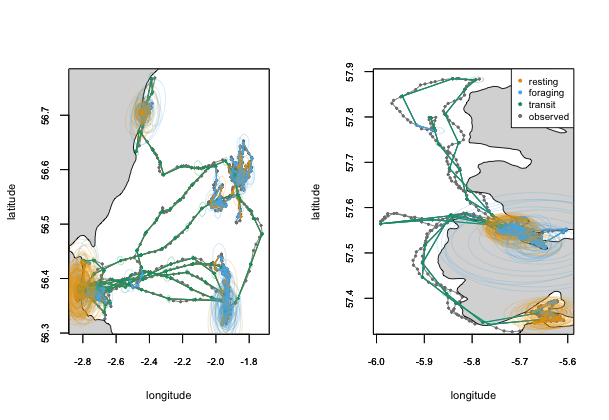
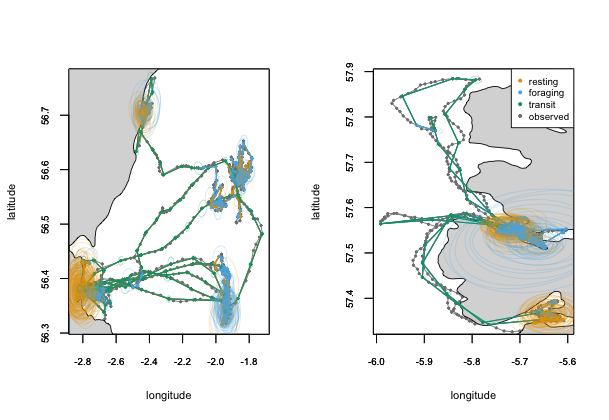
update harbourSealExample using formulaDelta=~ID

diff --git a/vignettes/momentuHMM.tex b/vignettes/momentuHMM.tex
@@ -178,7 +178,7 @@ While statisticians have been applying HMMs to telemetry data for decades, R \ci
 
 To address these defeciencies in existing software, we introduce a new user-friendly R package, \verb|momentuHMM| (Maximum likelihood analysis Of animal MovemENT behavior Using multivariate Hidden Markov Models), intended for practitioners wishing to implement more flexible and realistic (multivariate) HMM analyses of animal movement while accounting for common challenges associated with telemetry data. Features for multivariate HMM analyses in \verb|momentuHMM| include: 1) tools for data pre-processing and visualization; 2) user-specified probability distributions for an unlimited number of data streams and latent behavior states; 3) user-specified design matrices and constraints for covariate modelling of state transition probability and probability distribution parameters using linear model formulas familiar to most R users; 4) multiple imputation methods that account for observation error attributable to measurement error and temporally-irregular or missing data \citep{HootenEtAl2017,McClintock2017}; 5) seamless integration of spatio-temporal environmental covariate data (e.g., wind direction, forest cover, sea ice concentration) using the \verb|raster| package \citep{Hijmans2016}; 6) incorporation of ``activity center'' effects (e.g., areas associated with attractive or repulsive forces); 7) circular-circular regression models for angular probability distributions \citep{DuchesneEtAl2015}; 8) cosinor \citep[e.g.][]{Cornelissen2014} and spline regression formulas for cyclical and other complicated behavioral patterns; and 9) data simulation capabilities for power analyses and assessing model performance, including simulation of location data subject to temporal irregularity and/or measurement error.  
 
-In the following tutorial, we demonstrate some of the capabilities of \verb|momentuHMM| using real-world examples, including an example of periodic cycles in African elephant movement, a 3-state (``resting'', ``foraging'', ``transit'') northern fur seal example incorporating auxiliary dive activity data \citep{McClintockEtAl2014b}, a loggerhead turtle example relating ``foraging'' and ``transit'' movements to ocean surface currents, a 5-state grey seal example incorporating biased movements toward haul-out and foraging locations \citep{McClintockEtAl2012}, a 4-state (``outbound'', ``searching'', ``foraging'', ``inbound'') southern elephant seal example with biased movements toward and away from a colony \citep{MichelotEtAl2017}, and a 3-state (``resting'', ``foraging'', ``transit'') harbour seal example using population-level constraints on movement parameters \cite{McClintockEtAl2013c}. This brief tutorial includes workflows for data formatting, model specification, model fitting, and diagnostics. While many of the features of \verb|momentuHMM| were motivated by animal movement data, the package can be used for analyzing any type of data that is amenable to (multivariate) HMMs.  Additional information, including help files, data, examples, and package usage is available by downloading the \verb|momentuHMM| package from CRAN (\url{cran.r-project.org}) or Github (\url{github.com/bmcclintock/momentuHMM}). This article describes \verb|momentuHMM| version 1.2.0.
+In the following tutorial, we demonstrate some of the capabilities of \verb|momentuHMM| using real-world examples, including an example of periodic cycles in African elephant movement, a 3-state (``resting'', ``foraging'', ``transit'') northern fur seal example incorporating auxiliary dive activity data \citep{McClintockEtAl2014b}, a loggerhead turtle example relating ``foraging'' and ``transit'' movements to ocean surface currents, a 5-state grey seal example incorporating biased movements toward haul-out and foraging locations \citep{McClintockEtAl2012}, a 4-state (``outbound'', ``searching'', ``foraging'', ``inbound'') southern elephant seal example with biased movements toward and away from a colony \citep{MichelotEtAl2017}, and a 3-state (``resting'', ``foraging'', ``transit'') harbour seal example using population-level constraints on movement parameters \cite{McClintockEtAl2013c}. This brief tutorial includes workflows for data formatting, model specification, model fitting, and diagnostics. While many of the features of \verb|momentuHMM| were motivated by animal movement data, the package can be used for analyzing any type of data that is amenable to (multivariate) HMMs.  Additional information, including help files, data, examples, and package usage is available by downloading the \verb|momentuHMM| package from CRAN (\url{cran.r-project.org}) or Github (\url{github.com/bmcclintock/momentuHMM}). This article describes \verb|momentuHMM| version 1.2.1.
 
 \section{momentuHMM overview}
 %Given the deliberately similar syntax between the two packages, 
@@ -1157,7 +1157,7 @@ Putting it all together, we can fit our constrained model assuming no individual
 \end{kframe}
 \end{knitrout}
 
-As was mentioned earlier, we found overwhelming AIC support for the individual-level effects model relative to the sex-level effects models and the null model above. While our best supported \verb|momentuHMM| model included individual-level fixed effects, the estimated tracks (Fig. \ref{fig:hsTracks}) and inferences about population-level activity budgets were similar to the individual-level random effects model of \cite{McClintockEtAl2013c}. Estimated activity budgets for the males were $0.35$ (95\% CI: $0.35-0.35$) for ``resting'', $0.54$ (95\% CI: $0.54-0.55$) for ``foraging'', and $0.11$ (95\% CI: $0.1-0.11$) for ``transit''.  Activity budgets for females were $0.3$ (95\% CI: $0.29-0.3$) for ``resting'', $0.61$ (95\% CI: $0.6-0.62$) for ``foraging'', and $0.09$ (95\% CI: $0.08-0.1$) for ``transit''. We found considerable individual variation in the state transition probabilities (Fig. \ref{fig:hsTPM}), and when comparing the estimated activity budgets of our analysis with those of \cite{McClintockEtAl2013c}, we suspect the more noticeable differences between the time spent in the ``resting'' and ``foraging'' states for males is attributable to our having included individual-level effects on the state transition probabilities.  
+As was mentioned earlier, we found overwhelming AIC support for the individual-level effects model relative to the sex-level effects models and the null model above. While our best supported \verb|momentuHMM| model included individual-level fixed effects, the estimated tracks (Fig. \ref{fig:hsTracks}) and inferences about population-level activity budgets were similar to the individual-level random effects model of \cite{McClintockEtAl2013c}. Estimated activity budgets for the males were $0.35$ (95\% CI: $0.35-0.36$) for ``resting'', $0.54$ (95\% CI: $0.54-0.55$) for ``foraging'', and $0.11$ (95\% CI: $0.1-0.11$) for ``transit''.  Activity budgets for females were $0.3$ (95\% CI: $0.29-0.3$) for ``resting'', $0.61$ (95\% CI: $0.61-0.62$) for ``foraging'', and $0.09$ (95\% CI: $0.09-0.1$) for ``transit''. We found considerable individual variation in the state transition probabilities (Fig. \ref{fig:hsTPM}), and when comparing the estimated activity budgets of our analysis with those of \cite{McClintockEtAl2013c}, we suspect the more noticeable differences between the time spent in the ``resting'' and ``foraging'' states for males is attributable to our having included individual-level effects on the state transition probabilities.  
 \begin{figure}[htbp]
   \centering
   \includegraphics[width=\textwidth]{plot_harbourSeal.png}
@@ -1172,7 +1172,7 @@ As was mentioned earlier, we found overwhelming AIC support for the individual-l
 \end{figure}
 
 \section{Discussion}
-Here we have introduced version 1.2.0 of the R package \verb|momentuHMM| and demonstrated some of its capabilities for conducting multivariate HMM analyses with animal location, auxiliary biotelemetry, and environmental data. The package allows for fitting (and simulating from) a suite of biased and correlated random walk movement process models \citep[e.g.][]{McClintockEtAl2012}, can be used for an unlimited number of data streams and latent behavior states, includes multiple imputation methods to account for measurement error, temporal irregularity, and other forms of missing data that would otherwise be prohibitive to maximum likelihood analysis, and integrates seamlessly with rasters to facilitate spatio-temporal covariate modelling. Because the package incorporates biased random walks, it can also be used to implement group dynamic models \cite[e.g.][]{LangrockEtAl2014}. The package therefore greatly expands on available software and facilitates the incorporation of more ecological and behavioral realism for hypothesis-driven analyses of animal movement that account for many of the challenges commonly associated with telemetry data. While many of the features of \verb|momentuHMM| were motivated by animal movement data, we note that the package is not limited to location data and can be used for analyzing any type of data that is amenable to (multivariate) HMMs.
+Here we have introduced version 1.2.1 of the R package \verb|momentuHMM| and demonstrated some of its capabilities for conducting multivariate HMM analyses with animal location, auxiliary biotelemetry, and environmental data. The package allows for fitting (and simulating from) a suite of biased and correlated random walk movement process models \citep[e.g.][]{McClintockEtAl2012}, can be used for an unlimited number of data streams and latent behavior states, includes multiple imputation methods to account for measurement error, temporal irregularity, and other forms of missing data that would otherwise be prohibitive to maximum likelihood analysis, and integrates seamlessly with rasters to facilitate spatio-temporal covariate modelling. Because the package incorporates biased random walks, it can also be used to implement group dynamic models \cite[e.g.][]{LangrockEtAl2014}. The package therefore greatly expands on available software and facilitates the incorporation of more ecological and behavioral realism for hypothesis-driven analyses of animal movement that account for many of the challenges commonly associated with telemetry data. While many of the features of \verb|momentuHMM| were motivated by animal movement data, we note that the package is not limited to location data and can be used for analyzing any type of data that is amenable to (multivariate) HMMs.
 
 Model fitting in \verb|momentuHMM| is relatively fast because the forward algorithm (Eq. \ref{eq:HMMlike}) is coded in C++. Because multiple imputations are completely parallelizable, with sufficient processing power computation times for analyses that account for measurement error, temporal irregularity, or other forms of missing data need not be longer than that required to fit a single HMM.  However, computation times will necessarily be longer as the number of states and/or parameters increase. For example, \verb|momentuHMM| required about 1 hr to fit a single HMM with $N=6$ states, seven data streams, and $T=7414$ time steps \citep{McClintock2017}. 
 

diff --git a/manuscript/momentuHMM_manuscript.tex b/manuscript/momentuHMM_manuscript.tex
@@ -145,7 +145,7 @@
 
 \noindent \textbf{Summary}\\
 \textbf{1.} Discrete-time hidden Markov models (HMMs) have become an immensely popular tool for inferring latent animal behaviors from telemetry data. While movement HMMs typically rely solely on location data (e.g.\ step length and turning angle), auxiliary biotelemetry and environmental data are powerful and readily-available resources for incorporating much more ecological and behavioral realism. However, complex movement or observation process models often necessitate custom and computationally-demanding HMM model-fitting techniques that are impractical for most practitioners, and there is a paucity of generalized user-friendly software available for implementing multivariate HMMs of animal movement.\\
-\textbf{2.} Here we introduce an open-source R package, \verb|momentuHMM|%version 1.2.0 (Maximum likelihood analysis Of animal MovemENT behavior Using multivariate Hidden Markov Models)
+\textbf{2.} Here we introduce an open-source R package, \verb|momentuHMM|%version 1.2.1 (Maximum likelihood analysis Of animal MovemENT behavior Using multivariate Hidden Markov Models)
 , that addresses many of the deficiencies in existing HMM software.  Features include: 1) data pre-processing and visualization; 2) user-specified probability distributions for an unlimited number of data streams and latent behavior states; %, such as those based on location and auxiliary biotelemetry data (e.g.\ from pressure or motion sensors); 
 3) biased and correlated random walk movement models, including ``activity centers'' associated with attractive or repulsive forces; 4) user-specified design matrices and constraints for covariate modelling of parameters using formulas familiar to most R users; 5) multiple imputation methods that account for measurement error and temporally-irregular or missing data; 6) seamless integration of spatio-temporal covariate raster data; 7) cosinor and spline models for cyclical and other complicated patterns; 8) model checking and selection; and 9) simulation.\\% for power analyses and assessing model performance, including simulation of location data subject to temporal irregularity and/or measurement error.\\ 
 \textbf{3.} After providing a brief introduction to HMMs for telemetry data, we demonstrate some of the capabilities of \verb|momentuHMM| using real-world examples. These include models for cyclical movement patterns of African elephants, foraging trips of northern fur seals and southern elephant seals, loggerhead turtle movements relative to ocean surface currents, and grey seal movements among three activity centers.\\
@@ -177,7 +177,7 @@ While statisticians have been applying HMMs to telemetry data for decades, R \ci
 
 To address these defeciencies in existing software, we introduce a new user-friendly R package, \verb|momentuHMM| (Maximum likelihood analysis Of animal MovemENT behavior Using multivariate Hidden Markov Models), intended for practitioners wishing to implement more flexible and realistic HMM analyses of animal movement while accounting for common challenges associated with telemetry data. %Features for multivariate HMM analyses in \verb|momentuHMM| include: 1) tools for data pre-processing and visualization; 2) user-specified probability distributions for an unlimited number of data streams and latent behavior states; 3) user-specified design matrices and constraints for covariate modelling of state transition probability and probability distribution parameters using linear model formulas familiar to most R users; 4) multiple imputation methods that account for observation error attributable to measurement error and temporally-irregular or missing data \citep{HootenEtAl2017,McClintock2017}; 5) seamless integration of spatio-temporal environmental covariate data (e.g.\ wind direction, forest cover, sea ice concentration) using the \verb|raster| package \citep{Hijmans2016}; 6) incorporation of ``activity centers'' associated with attractive or repulsive forces \citep[e.g.][]{McClintockEtAl2012,MichelotEtAl2017}; 7) circular-circular regression models for angular probability distributions \citep{DuchesneEtAl2015}; 8) cosinor \citep[e.g.][]{Cornelissen2014} and spline regression formulas for cyclical and other complicated behavioral patterns; and 9) data simulation capabilities for power analyses and assessing model performance, including simulation of location data subject to temporal irregularity and/or measurement error.  
 We provide a brief overview of \verb|momentuHMM| and demonstrate some of its capabilities using real-world examples. %These include an example of periodic movement cycles in African elephants, a 3-state (``resting'', ``foraging'', ``transit'') northern fur seal example incorporating auxiliary dive activity data \citep{McClintockEtAl2014b}, a loggerhead turtle example relating ``foraging'' and ``transit'' movements to ocean surface currents, a 5-state grey seal example incorporating biased movements toward haul-out and foraging locations \citep{McClintockEtAl2012}, and a 4-state (``outbound'', ``searching'', ``foraging'', ``inbound'') southern elephant seal example with biased movements toward and away from a colony \citep{MichelotEtAl2017}. %While many of the features of \verb|momentuHMM| were motivated by animal movement data, the package can be used for analyzing any type of data that is amenable to (multivariate) HMMs.  
-Additional information, including help files, data, examples, and package usage is available by downloading the \verb|momentuHMM| package from CRAN (\url{cran.r-project.org}) or Github (\url{github.com/bmcclintock/momentuHMM}). This article describes \verb|momentuHMM| version 1.2.0.
+Additional information, including help files, data, examples, and package usage is available by downloading the \verb|momentuHMM| package from CRAN (\url{cran.r-project.org}) or Github (\url{github.com/bmcclintock/momentuHMM}). This article describes \verb|momentuHMM| version 1.2.1.
 
 \section{momentuHMM overview}
 %Given the deliberately similar syntax between the two packages, 
